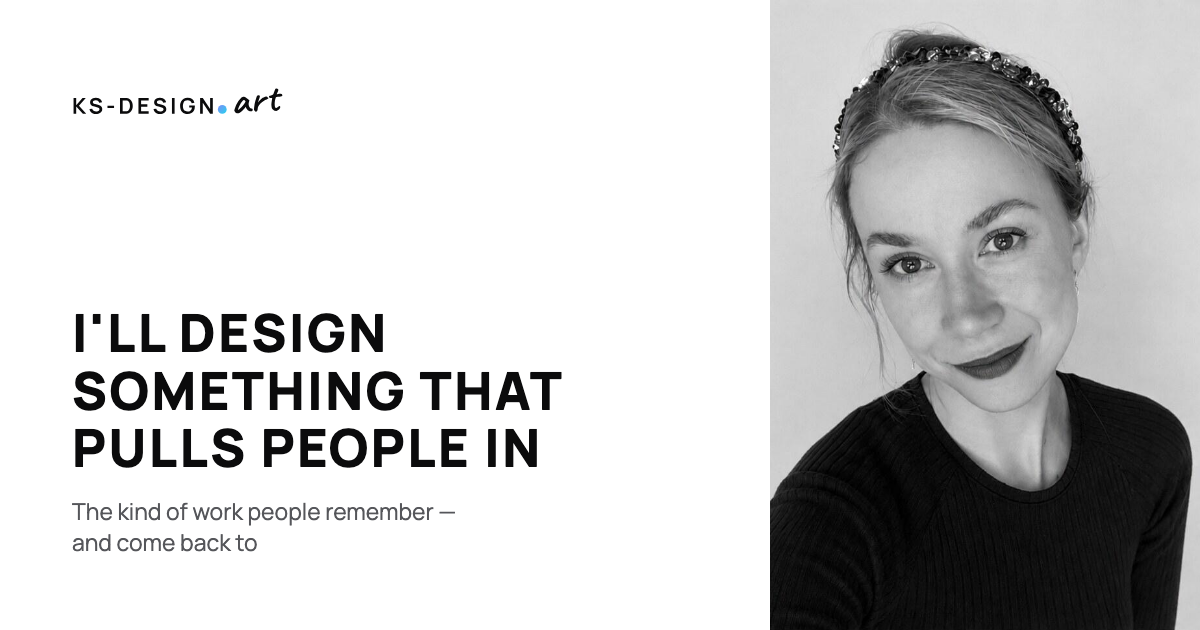
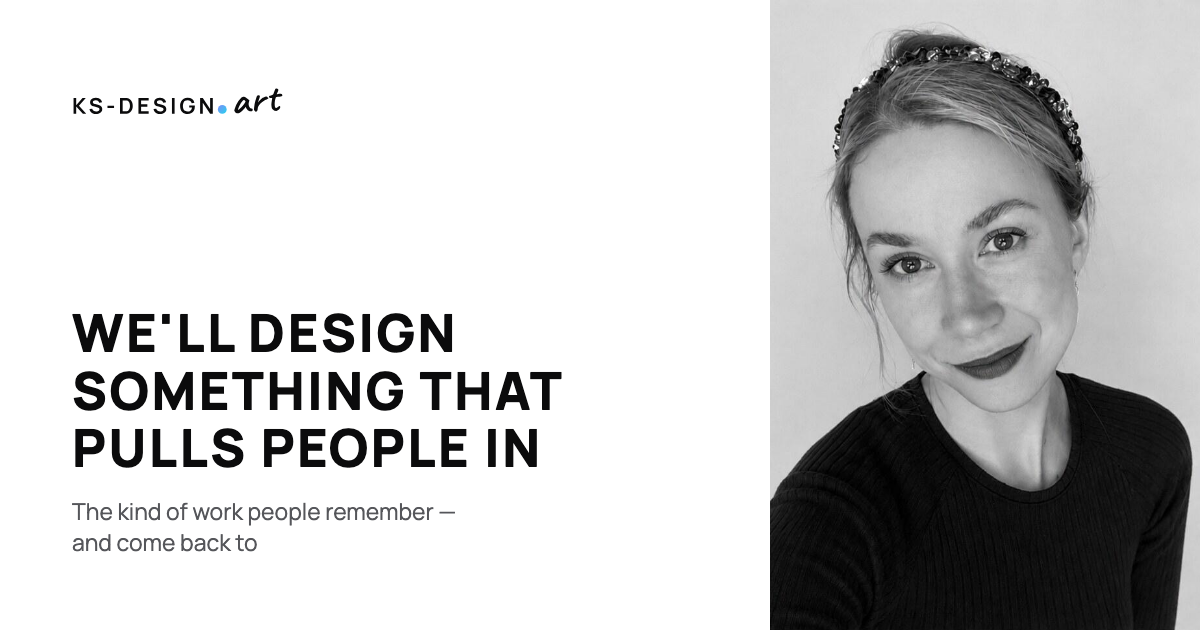
Add animated menus and update homepage agency voice

Changed region(s): [[0.0617, 0.4825, 0.4008, 0.573]]

diff --git a/website/src/content.js b/website/src/content.js
@@ -18,6 +18,7 @@ export const experienceYears = (now = new Date()) =>
 /** Approved external destinations. Kept in one place so the test that forbids
  *  stray outbound links has a list to check against. */
 export const links = {
+  website: "https://ks-design.art/",
   linkedin: "https://www.linkedin.com/in/kiaquila",
   telegram: "https://t.me/ks_aquila",
   /* wa.me resolves a phone number only — a handle does not open a chat. */
@@ -26,6 +27,7 @@ export const links = {
   github: "https://github.com/kiaquila",
   email: "ks@ks-design.art",
   work: {
+    menu: "https://menu.ks-design.art/",
     igorPsy: "https://igor-psy.ks-design.art/",
     chaijana: "https://chaijana.ks-design.workers.dev",
     alexNeon: "https://alex-neon.ks-design.workers.dev",
@@ -59,7 +61,8 @@ export const languages = {
  *  Spanish FAQ translations and their layout on 2026-10-23. On 2026-11-02,
  *  the owner approved adding her name and Buenos Aires to the first FAQ
  *  answer and the city to its question in both languages. The Spanish Igor
- *  Cherkasov card also awaits review. */
+ *  Cherkasov card, the Animated Menus card and the agency-voice changes
+ *  of 2026-11-27 also await review. */
 export const localesAwaitingReview = ["es"];
 
 /** One social card per language — sharing a page with a card that carries
@@ -71,8 +74,9 @@ export const ogImages = { en: "og-en.png", es: "og-es.png" };
 /** Bumped whenever the cards' pixels change. Social networks and messengers
  *  cache a preview by its image URL far past any page revalidation, so a
  *  redrawn card under the old URL keeps showing the old one. 3: the
- *  canonical outlined ks-design.art wordmark (2026-11-27). */
-export const ogImageVersion = 3;
+ *  canonical outlined ks-design.art wordmark (2026-11-27).
+ *  4: agency-voice headlines in both languages (2026-11-27). */
+export const ogImageVersion = 4;
 
 export const faqTopics = {
   clients: ["person"],
@@ -112,7 +116,7 @@ export const content = {
       jobTitle: "Web designer",
       description:
         "Small business website design: landing pages and one-page websites for coffee shops, salons, therapists and consultants. Non-generic AI design from Buenos Aires.",
-      ogTitle: "I'll design something that pulls people in",
+      ogTitle: "We'll design something that pulls people in",
       ogDescription:
         "Web design for landing pages and websites. A concept, two rounds of edits, a finished site."
     },
@@ -151,7 +155,7 @@ export const content = {
     langSwitch: { label: "Language", en: "EN", es: "ES" },
     skipLink: "Skip to content",
     hero: {
-      title: "I'll design something that pulls people in",
+      title: "We'll design something that pulls people in",
       subtitle: "The kind of work people remember — and come back to",
       primary: "Start a project",
       secondary: "See the work",
@@ -163,9 +167,9 @@ export const content = {
          pointer leaves the print, so a link out there could not be reached. */
       notes: [
         { text: "%YEARS%+ years in web development" },
-        { text: "I do non-generic AI web design" },
-        { text: "AI expert" },
-        { text: "I value aesthetics & authenticity" }
+        { text: "We do non-generic AI web design" },
+        { text: "Focus on results" },
+        { text: "We value aesthetics & authenticity" }
       ]
     },
     work: {
@@ -175,6 +179,17 @@ export const content = {
       next: "Next projects",
       visit: "Open the site",
       items: [
+        {
+          slug: "menu",
+          name: "Animated Menus",
+          kind: "Restaurant · digital menu",
+          year: "2026",
+          summary:
+            "A landing page for animated restaurant menus, with an interactive demo, dish photography and video.",
+          href: links.work.menu,
+          image: "menu",
+          alt: "Animated Menus landing page with a restaurant menu preview on a phone"
+        },
         {
           slug: "igor-psy",
           name: "Igor Cherkasov",
@@ -264,7 +279,7 @@ export const content = {
           body:
             "We carefully gather and sharpen your meaning together — everything you consider important and want the landing page or site to say."
         },
-        { n: "02", title: "A design concept", body: "I design a concept for you." },
+        { n: "02", title: "A design concept", body: "We design a concept for you." },
         {
           n: "03",
           title: "Two rounds of edits",
@@ -328,7 +343,7 @@ export const content = {
         {
           "id": "clients",
           "question": "Do you design websites and landing pages for small businesses in Buenos Aires and abroad?",
-          "answer": "I'm Kristina Aquila, a web designer in Buenos Aires. I design websites for small businesses and independent professionals: coffee shops, bakeries, salons, therapists, consultants and tutors. A landing page works well for one offer; a multi-page website gives several services their own space. I work remotely with clients in Argentina and English-speaking countries. I communicate in English, and in Spanish with translation support."
+          "answer": "We are ks-design.art, a creative agency founded by Kristina Aquila in Buenos Aires. We design websites for small businesses and independent professionals: coffee shops, bakeries, salons, therapists, consultants and tutors. A landing page works well for one offer; a multi-page website gives several services their own space. We work remotely with clients in Argentina and English-speaking countries. We communicate in English, and in Spanish with translation support."
         },
         {
           "id": "website-price",
@@ -348,22 +363,22 @@ export const content = {
         {
           "id": "ai-design",
           "question": "Do you use AI to design websites?",
-          "answer": "Yes. I use AI as a tool, working from references and my own visual concept. I rework the suggested designs and refine both design and code into a finished website. The aim is to express the character of your project."
+          "answer": "Yes. We use AI as a tool, working from references and our own visual concept. We rework the suggested designs and refine both design and code into a finished website. The aim is to express the character of your project."
         },
         {
           "id": "revisions",
           "question": "What if I don’t like the concept? How many revisions are included?",
-          "answer": "We first discuss what didn’t work for you. One alternative concept is included at no extra cost. The price covers two rounds of revisions within the agreed concept; for each round, you collect your feedback in one list. Extra revisions cost USD 50 per hour. We agree on the scope, time and cost before I start."
+          "answer": "We first discuss what didn’t work for you. One alternative concept is included at no extra cost. The price covers two rounds of revisions within the agreed concept; for each round, you collect your feedback in one list. Extra revisions cost USD 50 per hour. We agree on the scope, time and cost before we start."
         },
         {
           "id": "editing",
           "question": "How do I update my website after launch?",
-          "answer": "For now, I handle updates myself and don’t offer a CMS or editing dashboard. Changes to text, photos, prices and other content cost USD 50 per hour. We agree on the scope and cost in advance."
+          "answer": "For now, we handle updates and don’t offer a CMS or editing dashboard. Changes to text, photos, prices and other content cost USD 50 per hour. We agree on the scope and cost in advance."
         },
         {
           "id": "seo",
           "question": "Is SEO included in the website?",
-          "answer": "Basic search preparation is included: page titles and meta descriptions, a clear heading structure, image descriptions, a sitemap and checks that search engines can access the site. I also check the mobile version and optimize loading. I don’t currently offer ongoing SEO services or guarantee specific search rankings."
+          "answer": "Basic search preparation is included: page titles and meta descriptions, a clear heading structure, image descriptions, a sitemap and checks that search engines can access the site. We also check the mobile version and optimize loading. We don’t currently offer ongoing SEO services or guarantee specific search rankings."
         },
         {
           "id": "art-examples",
@@ -374,7 +389,7 @@ export const content = {
         {
           "id": "art-commission",
           "question": "Can I commission web art? How much does it cost?",
-          "answer": "Yes, I accept web art commissions. Each project is quoted individually, depending on the idea, visual complexity, interaction and display format. We agree on delivery format and usage rights separately for each project. To start, send me your idea and visual references."
+          "answer": "Yes, we accept web art commissions. Each project is quoted individually, depending on the idea, visual complexity, interaction and display format. We agree on delivery format and usage rights separately for each project. To start, send us your idea and visual references."
         }
       ]
     },
@@ -424,7 +439,7 @@ export const content = {
         github: "GitHub"
       }
     },
-    footer: { copyright: "© Kristina Aquila" },
+    footer: { copyright: "© Creative agency", brand: identity.brand },
     notFound: {
       title: "Page not found",
       body: "There is no such page here. Head back to the home page.",
@@ -438,7 +453,7 @@ export const content = {
       jobTitle: "Diseñadora web",
       description:
         "Diseño web para emprendedores y pequeños negocios: landings y sitios de una página para cafeterías, salones, psicólogos y consultores. Diseño con IA, nada genérico.",
-      ogTitle: "Te hago un diseño que atrapa",
+      ogTitle: "Te hacemos un diseño que atrapa",
       ogDescription:
         "Diseño web para landings y sitios. Un concepto, dos rondas de cambios, un sitio terminado."
     },
@@ -475,16 +490,16 @@ export const content = {
     langSwitch: { label: "Idioma", en: "EN", es: "ES" },
     skipLink: "Ir al contenido",
     hero: {
-      title: "Te hago un diseño que atrapa",
+      title: "Te hacemos un diseño que atrapa",
       subtitle: "Del tipo que la gente recuerda y al que vuelve",
       primary: "Hablemos del proyecto",
       secondary: "Ver los trabajos",
       portraitAlt: "Kristina Aquila, retrato",
       notes: [
         { text: "%YEARS%+ años en desarrollo web" },
-        { text: "hago diseño web con IA, nada genérico" },
-        { text: "experta en IA" },
-        { text: "valoro la estética y la autenticidad" }
+        { text: "hacemos diseño web con IA, nada genérico" },
+        { text: "enfoque en resultados" },
+        { text: "valoramos la estética y la autenticidad" }
       ]
     },
     work: {
@@ -494,6 +509,17 @@ export const content = {
       next: "Proyectos siguientes",
       visit: "Abrir el sitio",
       items: [
+        {
+          slug: "menu",
+          name: "Menús animados",
+          kind: "Restaurante · menú digital",
+          year: "2026",
+          summary:
+            "Una landing para menús animados de restaurantes, con una demo interactiva, fotografía de platos y video.",
+          href: links.work.menu,
+          image: "menu",
+          alt: "Landing de Menús animados con una vista previa del menú en un celular"
+        },
         {
           slug: "igor-psy",
           name: "Igor Cherkasov",
@@ -583,7 +609,7 @@ export const content = {
           body:
             "Juntamos y afinamos el sentido con vos — todo lo que te parece importante y querés que la landing o el sitio digan."
         },
-        { n: "02", title: "Un concepto de diseño", body: "Diseño un concepto para vos." },
+        { n: "02", title: "Un concepto de diseño", body: "Diseñamos un concepto para vos." },
         {
           n: "03",
           title: "Dos rondas de cambios",
@@ -646,8 +672,8 @@ export const content = {
       "items": [
         {
           "id": "clients",
-          "question": "¿Diseñás sitios web y landing pages para pequeños negocios en Buenos Aires y en el exterior?",
-          "answer": "Soy Kristina Aquila, diseñadora web en Buenos Aires. Diseño sitios para pequeños negocios y profesionales independientes: cafeterías, pastelerías, salones de belleza, psicólogos, consultores y profesores particulares. Una landing sirve para presentar una propuesta; un sitio de varias páginas permite separar distintos servicios. Trabajo a distancia con clientes de Argentina y países de habla inglesa. Me comunico en inglés y, en español, con ayuda de traducción."
+          "question": "¿Diseñan sitios web y landing pages para pequeños negocios en Buenos Aires y en el exterior?",
+          "answer": "Somos ks-design.art, una agencia creativa fundada por Kristina Aquila en Buenos Aires. Diseñamos sitios para pequeños negocios y profesionales independientes: cafeterías, pastelerías, salones de belleza, psicólogos, consultores y profesores particulares. Una landing sirve para presentar una propuesta; un sitio de varias páginas permite separar distintos servicios. Trabajamos a distancia con clientes de Argentina y países de habla inglesa. Nos comunicamos en inglés y, en español, con ayuda de traducción."
         },
         {
           "id": "website-price",
@@ -661,13 +687,13 @@ export const content = {
         },
         {
           "id": "content",
-          "question": "¿Qué tengo que preparar? ¿Me ayudás con los textos?",
+          "question": "¿Qué tengo que preparar? ¿Me ayudan con los textos?",
           "answer": "Reuní una descripción de tu negocio y servicios, datos de contacto, textos, fotos y los materiales de marca que tengas. También sirven ejemplos de sitios con una explicación de qué te gusta de cada uno. El paquete de landing incluye estructura y edición ligera de tus textos; no incluye escribirlos desde cero."
         },
         {
           "id": "ai-design",
-          "question": "¿Usás inteligencia artificial para diseñar sitios web?",
-          "answer": "Sí. Uso IA como herramienta, a partir de referencias y una propuesta visual propia. Reelaboro las soluciones que genera y ajusto el diseño y el código hasta llegar al sitio terminado. Busco que el resultado refleje el carácter de tu proyecto."
+          "question": "¿Usan inteligencia artificial para diseñar sitios web?",
+          "answer": "Sí. Usamos IA como herramienta, a partir de referencias y una propuesta visual propia. Reelaboramos las soluciones que genera y ajustamos el diseño y el código hasta llegar al sitio terminado. Buscamos que el resultado refleje el carácter de tu proyecto."
         },
         {
           "id": "revisions",
@@ -677,23 +703,23 @@ export const content = {
         {
           "id": "editing",
           "question": "¿Cómo actualizo mi sitio después de publicarlo?",
-          "answer": "Por ahora, las actualizaciones las hago yo; no ofrezco un panel para que edites el sitio por tu cuenta. Los cambios de textos, fotos, precios y otros contenidos cuestan USD 50 por hora. Acordamos el alcance y el costo de antemano."
+          "answer": "Por ahora, nos encargamos de las actualizaciones; no ofrecemos un panel para que edites el sitio por tu cuenta. Los cambios de textos, fotos, precios y otros contenidos cuestan USD 50 por hora. Acordamos el alcance y el costo de antemano."
         },
         {
           "id": "seo",
           "question": "¿El sitio incluye SEO?",
-          "answer": "Incluye la preparación básica para buscadores: títulos y descripciones de las páginas, una estructura clara de encabezados, descripciones de imágenes, mapa del sitio y revisión del acceso para los robots de búsqueda. También reviso la versión para celular y optimizo la carga. Por ahora no ofrezco posicionamiento SEO como servicio continuo ni garantizo posiciones específicas en los resultados."
+          "answer": "Incluye la preparación básica para buscadores: títulos y descripciones de las páginas, una estructura clara de encabezados, descripciones de imágenes, mapa del sitio y revisión del acceso para los robots de búsqueda. También revisamos la versión para celular y optimizamos la carga. Por ahora no ofrecemos posicionamiento SEO como servicio continuo ni garantizamos posiciones específicas en los resultados."
         },
         {
           "id": "art-examples",
           "references": [{ "label": "Ember", "href": links.work.ember }, { "label": "Fathom", "href": links.work.fathom }],
-          "question": "¿Qué es el arte web y dónde puedo ver tus trabajos?",
+          "question": "¿Qué es el arte web y dónde puedo ver sus trabajos?",
           "answer": "El arte web es una obra que funciona en el navegador: una escena en movimiento, un experimento visual o una composición interactiva. En Ember, una figura de alambre se quema bajo el cursor y vuelve a formarse. En Fathom, peces dorados nadan en agua que cambia según la hora local de quien la mira. Se pueden crear obras para navegadores, animaciones, protectores de pantalla y proyectos de exhibición."
         },
         {
           "id": "art-commission",
-          "question": "¿Puedo encargarte una obra de arte web? ¿Cuánto cuesta?",
-          "answer": "Sí, acepto encargos de arte web. Cotizo cada proyecto de forma individual, según la idea, la complejidad visual, la interacción y el formato de exhibición. El formato de entrega y los derechos de uso se acuerdan por separado para cada proyecto. Para empezar, mandame tu idea y referencias visuales."
+          "question": "¿Puedo encargarles una obra de arte web? ¿Cuánto cuesta?",
+          "answer": "Sí, aceptamos encargos de arte web. Cotizamos cada proyecto de forma individual, según la idea, la complejidad visual, la interacción y el formato de exhibición. El formato de entrega y los derechos de uso se acuerdan por separado para cada proyecto. Para empezar, mandanos tu idea y referencias visuales."
         }
       ]
     },
@@ -741,7 +767,7 @@ export const content = {
         github: "GitHub"
       }
     },
-    footer: { copyright: "© Kristina Aquila" },
+    footer: { copyright: "© Creative agency", brand: identity.brand },
     notFound: {
       title: "Página no encontrada",
       body: "Acá no hay ninguna página así. Volvé al inicio.",

diff --git a/website/src/render.js b/website/src/render.js
@@ -464,7 +464,7 @@ function contact(copy) {
     </div>
     <footer class="site-footer">
       <div class="container footer-inner">
-        <p class="footer-copyright">${escapeHtml(copy.footer.copyright)}</p>
+        <p class="footer-copyright">${escapeHtml(copy.footer.copyright)} <a class="footer-brand" href="${escapeHtml(links.website)}">${escapeHtml(copy.footer.brand)}</a></p>
         <p class="footer-location">${icons.pin}${escapeHtml(copy.contact.location)}</p>
       </div>
     </footer>
@@ -808,7 +808,7 @@ export function renderNotFound(lang, origin, assetVersions = {}) {
   </main>
   <footer class="site-footer">
     <div class="container footer-inner">
-      <p class="footer-copyright">${escapeHtml(copy.footer.copyright)}</p>
+      <p class="footer-copyright">${escapeHtml(copy.footer.copyright)} <a class="footer-brand" href="${escapeHtml(links.website)}">${escapeHtml(copy.footer.brand)}</a></p>
     </div>
   </footer>`;
 

diff --git a/website/src/styles/components.css b/website/src/styles/components.css
@@ -379,7 +379,7 @@
   }
 
   /* Beside the claim, never over it (client sketch, 2026-08-29): the
-     arrow stands just right of "AI expert" and points steeply up at her.
+     arrow stands just right of "Focus on results" and points steeply up at her.
      The scaleY flip turns the arc over — it bows up and away from the
      print (client's second pass the same day), rising like a bracket and
      hooking right at the top. */

diff --git a/website/src/styles/layout.css b/website/src/styles/layout.css
@@ -270,6 +270,14 @@
   font-size: var(--step-small);
 }
 
+.footer-brand {
+  display: inline-flex;
+  align-items: center;
+  min-height: 44px;
+  text-decoration: underline;
+  text-underline-offset: 0.2em;
+}
+
 /* The pin is a mark on a label, not an icon in its own right: it sits on the
    text baseline's line box and takes the same muted grey. */
 .footer-location {

diff --git a/README.md b/README.md
@@ -1,6 +1,6 @@
 # KS — Kristina Aquila portfolio
 
-Bilingual selling landing page for Kristina Aquila's web design practice. It is
+Bilingual selling landing page for ks-design.art, Kristina Aquila's creative agency. It is
 an original design rather than a redesign: the business, the offer and the
 copy are the owner's own.
 
@@ -69,7 +69,7 @@ The header and social-card renderer use these outlined assets.
 | GitHub | [kiaquila](https://github.com/kiaquila) | client, 2026-09-11 |
 | Pinterest | [ks_aquila](https://www.pinterest.com/ks_aquila/) | client, 2026-08-27 |
 | AI channel and AI-engineers community | Not mentioned on the site: Russian-speaking audience, irrelevant to clients | client, 2026-10-19 |
-| Hero annotation claims | %YEARS%+ years, not generic AI web design, AI expert, aesthetics and authenticity; no links | client, 2026-08-28; links dropped 2026-09-11; TG channel and community bullets dropped 2026-10-19 |
+| Hero annotation claims | %YEARS%+ years, not generic AI web design, focus on results, aesthetics and authenticity; no links | client, 2026-08-28; links dropped 2026-09-11; TG channel and community bullets dropped 2026-10-19; agency voice and results claim approved 2026-11-27 |
 | In web development since | 2017 — technical writer at a large e-commerce company, then QA and JS test automation; web design with AI recently | client; background 2026-10-19 |
 | Site launched | August 2026 | client, 2026-10-19 |
 | Ideal client | Small businesses (pastry shop, coffee shop, beauty salon…) and solo entrepreneurs (consultants, therapists, tutors…) | client, 2026-10-19 |
@@ -118,6 +118,7 @@ part of that project, which is a record of work done rather than an offer.
 The projects are maintained in separate standalone repositories; this
 repository contains only the portfolio copy and card screenshots that present
 them. In carousel order they are
+[Animated Menus](https://menu.ks-design.art/),
 [Igor Cherkasov](https://igor-psy.ks-design.art/)
 ([repository](https://github.com/kiaquila/igor-psy)),
 [Chaijaná Noir](https://chaijana.ks-design.workers.dev)
@@ -134,6 +135,16 @@ them. In carousel order they are
 ([repository](https://github.com/kiaquila/fathom)). The card images are
 screenshots of those stages at the section's 16:9 proportion, regenerated with
 the commands in [`AGENTS.md`](./AGENTS.md).
+
+The Animated Menus card shows the first screen of the live English landing, captured
+at 1440×810 and resized without cropping to 1200×675 and 800×450 in JPEG
+and WebP. The project is presented before Igor Cherkasov as the newest work.
+
+The homepage speaks as “we” in both languages (client decision, 2026-11-27),
+including the hero, annotations, process and FAQ answers. Questions written
+from the visitor’s perspective keep “I”. The footer reads
+`© Creative agency ks-design.art`, with the domain linking to the production
+homepage. The Spanish agency copy and Animated Menus card await owner review.
 
 The Igor Cherkasov card uses the first screen of the live Russian-language
 site. The Spanish card copy awaits owner review.

diff --git a/AGENTS.md b/AGENTS.md
@@ -176,8 +176,13 @@ rules, heavy tracked capitals. Everything below follows from that.
   pair is anchored to the bottom of the last slide: copyright hard left, a pin
   icon and the location hard right — in the corner the social icons held
   until they moved up into the band (client decision, 2026-09-17). It carries
-  no links and no rule on top — the band above it already divides the page,
+  the agency homepage link in `© Creative agency ks-design.art` (client
+  decision, 2026-11-27) and no rule on top — the band above it already divides the page,
   and the band must not be pushed away from it by a spacer row.
+- Write the practice’s visible homepage copy as “we” in both locales. Keep
+  visitor questions in the visitor’s voice and preserve the owner’s factual
+  identity in metadata and portrait descriptions. The results annotation is
+  “Focus on results” / “enfoque en resultados”.
 - Tone: calm, concrete, premium. No urgency timers, no invented counters, no
   exclamation marks.
 
